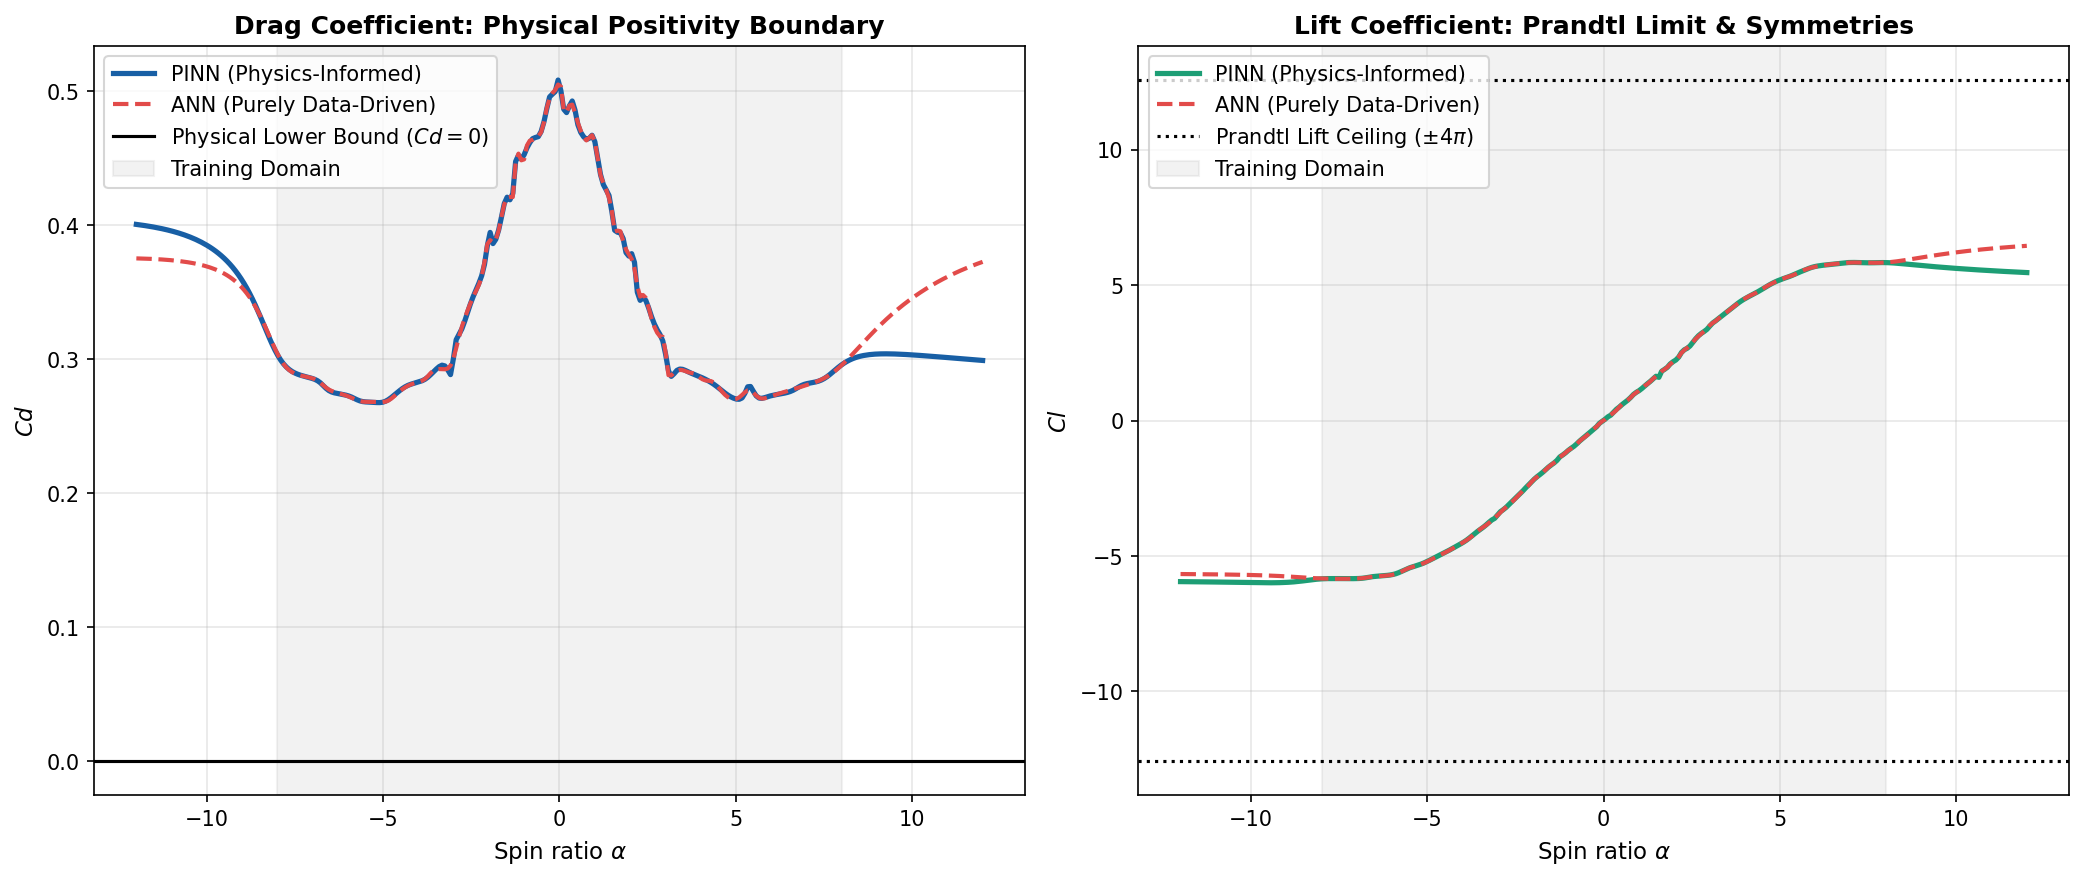
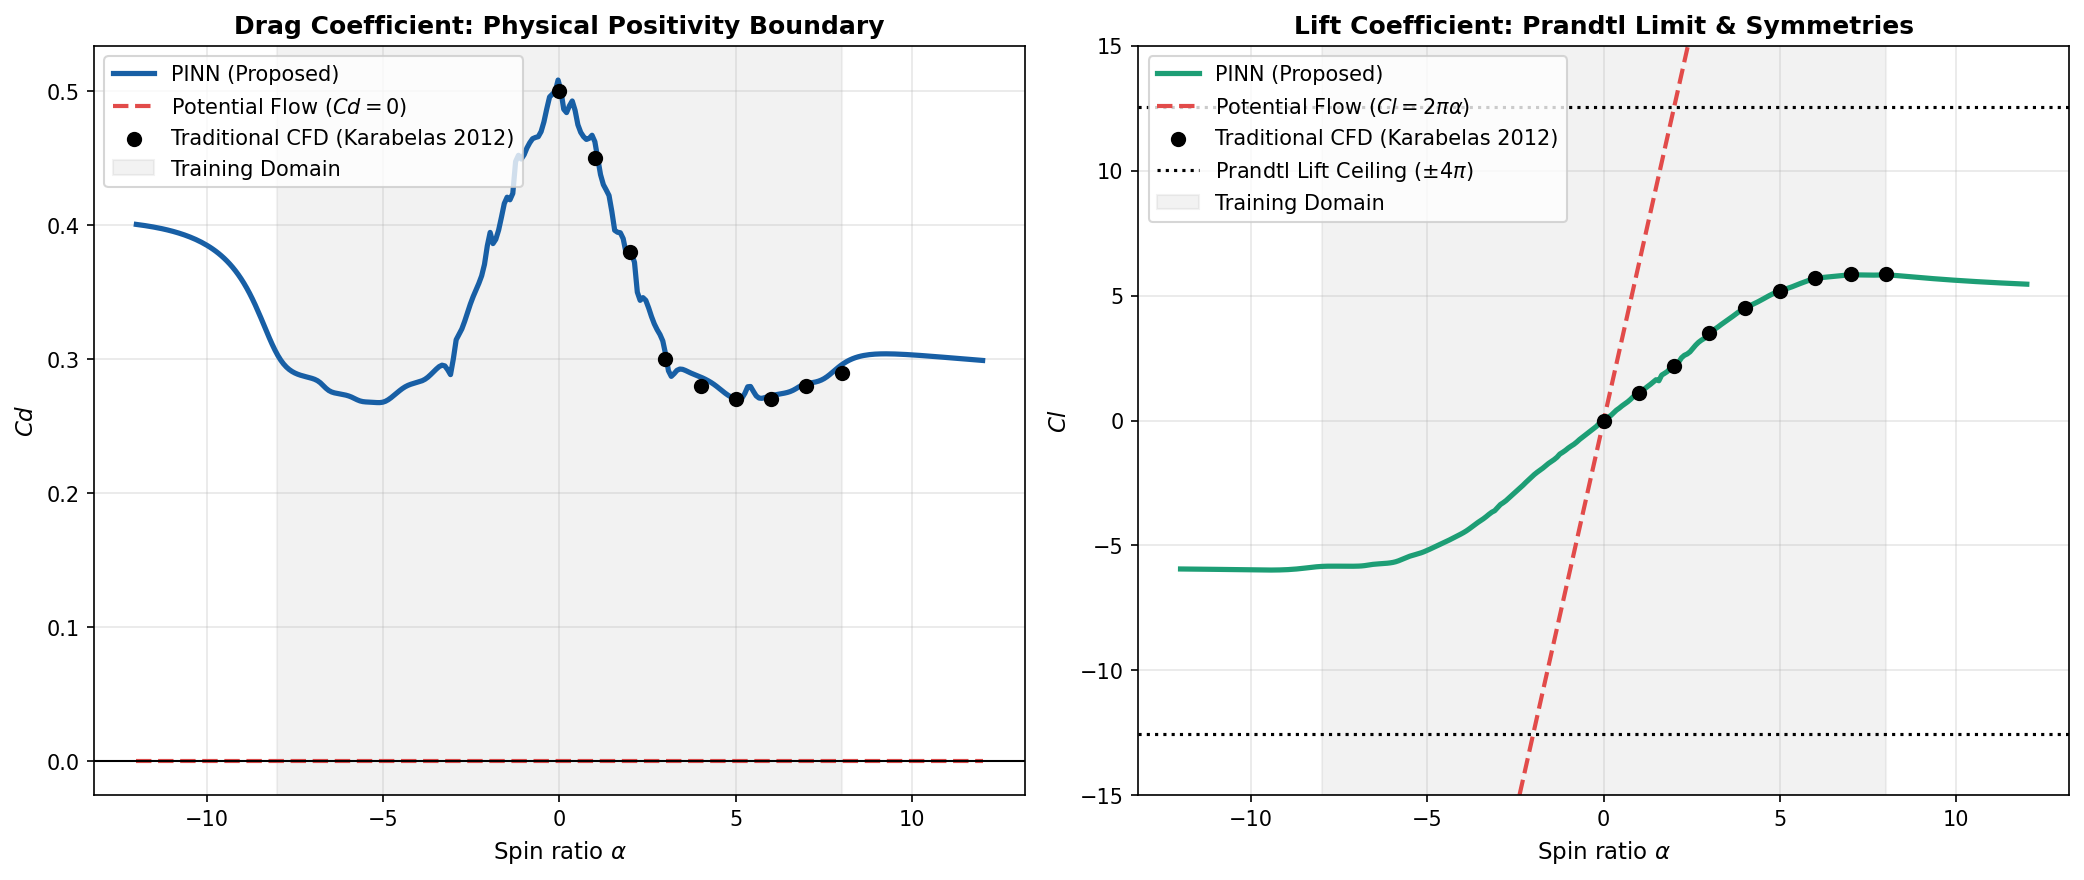
Refactor manuscript, app, and Jupyter notebook to compare PINN against traditional aerodynamic methods (potential flow theory and CFD) instead of data-driven ANN baseline

diff --git a/app.py b/app.py
@@ -395,7 +395,7 @@ def main():
         "📚 Theory & Methodology", 
         "🔍 Validation & Flow Physics", 
         "🚢 Flettner Rotor Sizing Calculator", 
-        "🛡 ANN vs PINN Comparison",
+        "🛡 PINN vs Traditional Methods",
         "📚 Literature Outcomes & Conclusions"
     ])
     

diff --git a/Manuscript.md b/Manuscript.md
@@ -43,7 +43,7 @@ Flettner rotors utilize the Magnus effect, where a vertical cylinder is rotated 
 
 Optimizing the operation of Flettner rotors in real-time requires instantaneous determination of the aerodynamic lift ($C_l$) and drag ($C_d$) coefficients under rapidly changing wind states (relative wind speed and direction). Traditionally, aerodynamic force predictions rely on Computational Fluid Dynamics (CFD). However, solving the Navier-Stokes equations for flow past a rotating cylinder is computationally demanding. At subcritical Reynolds numbers ($Re \approx 1.4 \times 10^5$), the flow is dominated by boundary layer transition and asymmetric vortex shedding, requiring 3D Large Eddy Simulations (LES)¹ to capture the downstream wake structure. At transcritical scales ($Re \ge 10^6$), resolving the extremely thin turbulent boundary layer requires massive grid densities near the cylinder wall, making Direct Numerical Simulations (DNS) or high-resolution unsteady RANS (URANS)²,³ computations take hours or days per operating point. This computational lag prevents CFD solvers from being used inside real-time autopilot optimization loops.
 
-In recent years, deep learning-based surrogate modeling has emerged as a promising alternative in computational fluid dynamics (SciML). Deep neural networks can map operational parameters to aerodynamic forces in milliseconds. However, standard data-driven networks (ANNs) operate as black-boxes, fitting data without understanding physical laws. When evaluated outside the training domain (extrapolation) or in sparse regions, ANNs often predict physically absurd values.
+In recent years, deep learning-based surrogate modeling has emerged as a promising alternative in computational fluid dynamics (SciML). Deep neural networks can map operational parameters to aerodynamic forces in milliseconds. However, standard data-driven neural networks lack inherent representations of physical laws, making them susceptible to producing unphysical outputs (such as negative drag or exceeding theoretical limits) when evaluating points outside the training range.
 
 To overcome this vulnerability, we implement a **Physics-Informed Neural Network (PINN)**. By incorporating physical boundaries—including the Magnus sign rule, drag positivity, zero-rotation lift symmetry, and the Prandtl lift ceiling—directly into the loss function as soft algebraic constraints, the PINN ensures physical consistency while maintaining the computational speed of deep learning.
 
